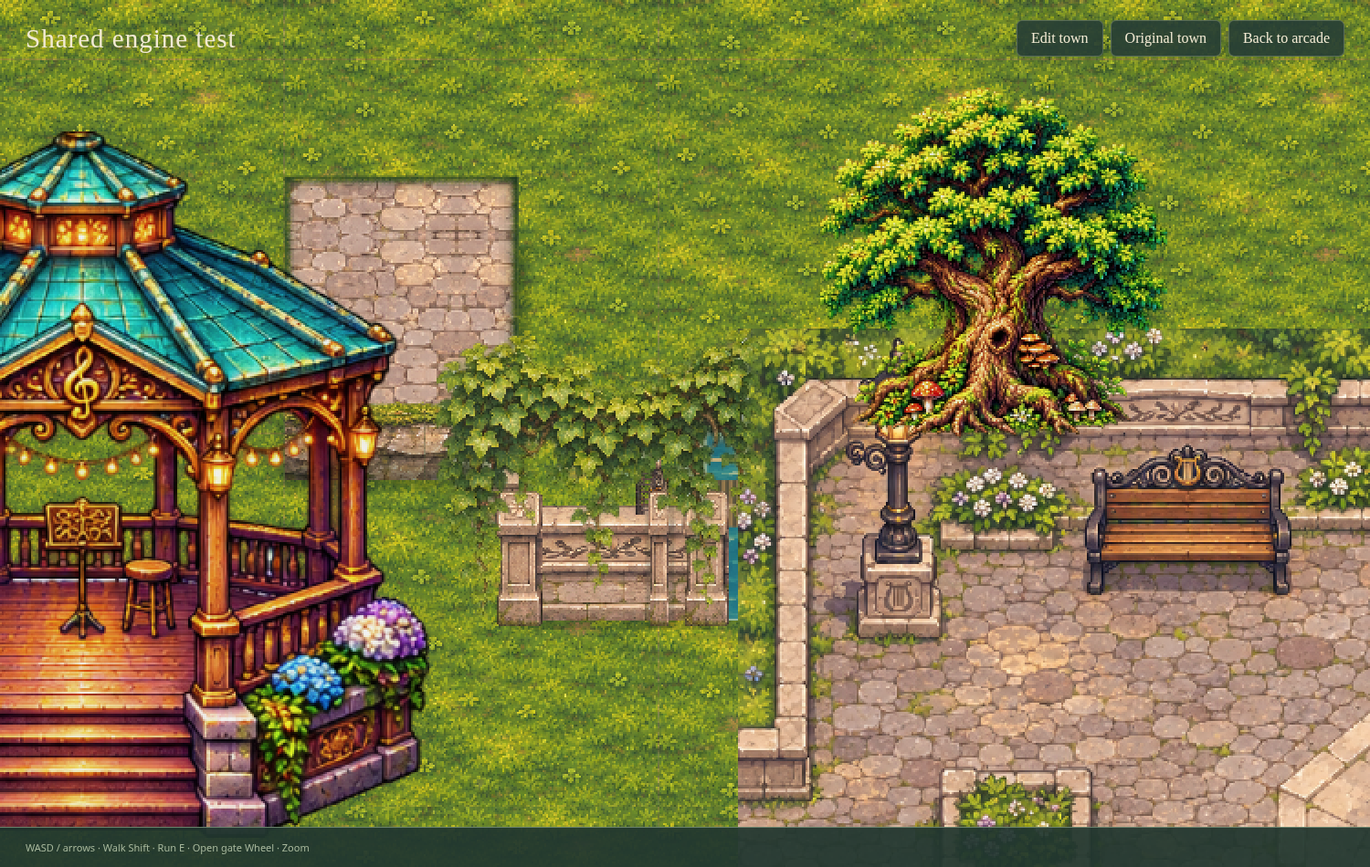
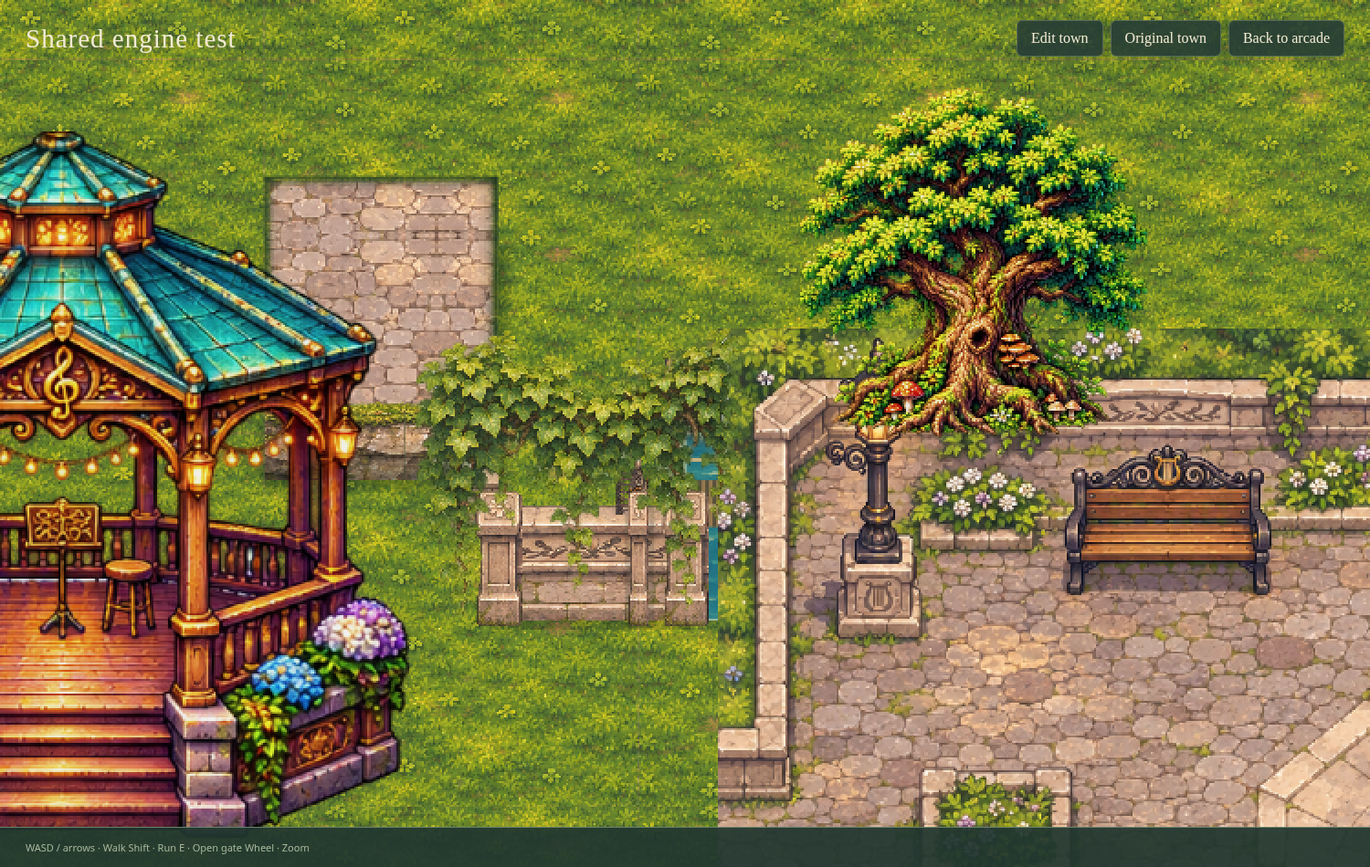
Scale town characters and speed up exploration

diff --git a/town/builder/index.html b/town/builder/index.html
@@ -1,3 +1,3 @@
-<!doctype html><html lang="en"><head><meta charset="utf-8"><meta name="viewport" content="width=device-width,initial-scale=1"><title>Coda Town · Builder</title><link rel="stylesheet" href="builder.css?v=home-open-1"></head><body>
+<!doctype html><html lang="en"><head><meta charset="utf-8"><meta name="viewport" content="width=device-width,initial-scale=1"><title>Coda Town · Builder</title><link rel="stylesheet" href="builder.css?v=walk-scale-1"></head><body>
 <header><a href="../">❧ Coda Town</a><input id="name" value="My Coda Town" aria-label="Town name" maxlength="100"><button id="new">New grass map</button><button id="open">Open</button><button id="save">Save project</button><button id="pack">Asset pack ↓</button><button id="undo">Undo</button><button id="redo">Redo</button><button id="walk">Walk test</button><button id="play">Play this town ↗</button><button id="fit">Full map</button></header>
-<main><aside><h1>Town workshop</h1><p>Build your own musical valley.</p><div id="tools"></div><h2 id="assetLibraryTitle">Asset library</h2><input id="search" placeholder="Search trees, houses, gazebo…" aria-label="Search assets"><select id="category" aria-label="Asset category"><option value="">All assets</option></select><div id="library"></div></aside><section id="viewport"><canvas id="map" tabindex="0" aria-label="Town building canvas"></canvas><div id="mapTools"><button id="selectLand">Select land region</button><button id="cliffMount">Cliff assets</button><button id="cornerStyle" hidden>Corners: Smooth round ↻</button><button id="selectAllLand">Select whole map</button><label>View <select id="heightView"><option value="art">Artwork</option><option value="colors">Height colors</option><option value="plan">Elevation plan</option></select></label><span id="hoverLevel">Level 0</span></div><div id="heightLegend" hidden><b>Ground levels</b><div id="levelSwatches"></div><small>Lines mark height changes · arrows mark stairs</small></div><div id="hint">Drag to paint · right drag to pan · wheel to zoom</div><div id="status" role="status">Loading artwork…</div></section><aside id="inspector"><h2>Land selection</h2><label>Selection shape<select id="selectionShape"><option value="rectangle">Rectangle</option><option value="freeform">Freeform lasso</option></select></label><p id="regionInfo">Drag a rectangle or draw a freeform boundary in any view.</p><button id="raiseRegion" disabled>Raise selected land +1</button><button id="lowerRegion" disabled>Lower selected land −1</button><button id="clearRegion" disabled>Clear selection</button><h2 id="buildSettingsTitle">Build settings</h2><label>Ground<select id="surface"></select></label><label>Paving match<select id="paving"><option value="auto">Auto · nearest property</option></select></label><label>Brush size <input id="brush" type="number" min=".25" max="15" step=".25" value="3"></label><div id="groundBrushSettings" hidden><label>Painting shape<select id="groundShape"><option value="round">Round soft brush</option><option value="square">Square tiles</option></select></label><div id="softGroundControls"><label>Hardness <output id="brushHardnessValue">45%</output><input id="brushHardness" type="range" min="0" max="100" value="45"></label><label>Opacity / blend strength <output id="brushOpacityValue">100%</output><input id="brushOpacity" type="range" min="1" max="100" value="100"></label></div><p id="groundBrushHelp">Paint with a round, soft-edged brush. Blend ground softens existing material transitions. Water uses Lake / river.</p></div><p>Round corners: brush an inside or outside corner. Brush width sets the rounding radius, up to 8 tiles.</p><label>Terrain level <input id="level" type="number" min="0" max="8" value="1"></label><p>Steps: drag from one ground level to another. Direction and rise are automatic; brush width sets stair width.</p><label>Steps / bridge finish<select id="finish"><option>stone</option><option>wood</option><option>brick</option></select></label><label>Bridge direction<select id="bridge"><option value="ns">North–south</option><option value="ew">East–west</option></select></label><label>Fence / wall<select id="barrier"></select></label><h2 id="assetName">Choose an asset</h2><label>Placement surface<select id="mountSurface"><option value="ground">Ground</option><option value="cliff">Cliff face · south-facing</option></select></label><label>Height on cliff<input id="mountHeight" type="range" min="0" max="100" value="50"><span id="mountHeightLabel">50%</span></label><label>Size<input id="scale" type="number" min=".25" max="3" step=".25" value="1"></label><label>Rotation<select id="rotation"><option>0</option><option>90</option><option>180</option><option>270</option></select></label><label>Layer<select id="layer"><option>objects</option><option>overgrowth</option><option>ground</option></select></label><label><input id="collision" type="checkbox" checked> Asset collision</label><button id="duplicate">Duplicate selected</button><button id="delete">Delete selected</button><label><input id="grid" type="checkbox"> Grid</label><label><input id="showCollision" type="checkbox"> Show collision</label><p>Raised ground blocks walking at cliff edges. Steps connect the ground levels you drag between. Water blocks walking; bridges cross it. E opens gates during walk test.</p><p>Fences snap to cell edges. Drag an L to join corners. Foliage uses the overgrowth layer.</p><p>Projects autosave in this browser. Save a project file for a portable backup.</p></aside></main><input id="file" type="file" accept=".json" hidden><script src="../../character-renderer.js"></script><script type="module" src="app.mjs?v=home-open-1"></script></body></html>
+<main><aside><h1>Town workshop</h1><p>Build your own musical valley.</p><div id="tools"></div><h2 id="assetLibraryTitle">Asset library</h2><input id="search" placeholder="Search trees, houses, gazebo…" aria-label="Search assets"><select id="category" aria-label="Asset category"><option value="">All assets</option></select><div id="library"></div></aside><section id="viewport"><canvas id="map" tabindex="0" aria-label="Town building canvas"></canvas><div id="mapTools"><button id="selectLand">Select land region</button><button id="cliffMount">Cliff assets</button><button id="cornerStyle" hidden>Corners: Smooth round ↻</button><button id="selectAllLand">Select whole map</button><label>View <select id="heightView"><option value="art">Artwork</option><option value="colors">Height colors</option><option value="plan">Elevation plan</option></select></label><span id="hoverLevel">Level 0</span></div><div id="heightLegend" hidden><b>Ground levels</b><div id="levelSwatches"></div><small>Lines mark height changes · arrows mark stairs</small></div><div id="hint">Drag to paint · right drag to pan · wheel to zoom</div><div id="status" role="status">Loading artwork…</div></section><aside id="inspector"><h2>Land selection</h2><label>Selection shape<select id="selectionShape"><option value="rectangle">Rectangle</option><option value="freeform">Freeform lasso</option></select></label><p id="regionInfo">Drag a rectangle or draw a freeform boundary in any view.</p><button id="raiseRegion" disabled>Raise selected land +1</button><button id="lowerRegion" disabled>Lower selected land −1</button><button id="clearRegion" disabled>Clear selection</button><h2 id="buildSettingsTitle">Build settings</h2><label>Ground<select id="surface"></select></label><label>Paving match<select id="paving"><option value="auto">Auto · nearest property</option></select></label><label>Brush size <input id="brush" type="number" min=".25" max="15" step=".25" value="3"></label><div id="groundBrushSettings" hidden><label>Painting shape<select id="groundShape"><option value="round">Round soft brush</option><option value="square">Square tiles</option></select></label><div id="softGroundControls"><label>Hardness <output id="brushHardnessValue">45%</output><input id="brushHardness" type="range" min="0" max="100" value="45"></label><label>Opacity / blend strength <output id="brushOpacityValue">100%</output><input id="brushOpacity" type="range" min="1" max="100" value="100"></label></div><p id="groundBrushHelp">Paint with a round, soft-edged brush. Blend ground softens existing material transitions. Water uses Lake / river.</p></div><p>Round corners: brush an inside or outside corner. Brush width sets the rounding radius, up to 8 tiles.</p><label>Terrain level <input id="level" type="number" min="0" max="8" value="1"></label><p>Steps: drag from one ground level to another. Direction and rise are automatic; brush width sets stair width.</p><label>Steps / bridge finish<select id="finish"><option>stone</option><option>wood</option><option>brick</option></select></label><label>Bridge direction<select id="bridge"><option value="ns">North–south</option><option value="ew">East–west</option></select></label><label>Fence / wall<select id="barrier"></select></label><h2 id="assetName">Choose an asset</h2><label>Placement surface<select id="mountSurface"><option value="ground">Ground</option><option value="cliff">Cliff face · south-facing</option></select></label><label>Height on cliff<input id="mountHeight" type="range" min="0" max="100" value="50"><span id="mountHeightLabel">50%</span></label><label>Size<input id="scale" type="number" min=".25" max="3" step=".25" value="1"></label><label>Rotation<select id="rotation"><option>0</option><option>90</option><option>180</option><option>270</option></select></label><label>Layer<select id="layer"><option>objects</option><option>overgrowth</option><option>ground</option></select></label><label><input id="collision" type="checkbox" checked> Asset collision</label><button id="duplicate">Duplicate selected</button><button id="delete">Delete selected</button><label><input id="grid" type="checkbox"> Grid</label><label><input id="showCollision" type="checkbox"> Show collision</label><p>Raised ground blocks walking at cliff edges. Steps connect the ground levels you drag between. Water blocks walking; bridges cross it. E opens gates during walk test.</p><p>Fences snap to cell edges. Drag an L to join corners. Foliage uses the overgrowth layer.</p><p>Projects autosave in this browser. Save a project file for a portable backup.</p></aside></main><input id="file" type="file" accept=".json" hidden><script src="../../character-renderer.js"></script><script type="module" src="app.mjs?v=walk-scale-1"></script></body></html>

diff --git a/town/index.html b/town/index.html
@@ -7,4 +7,4 @@
 <div id="touch"><div class="dpad"><button data-key="ArrowUp" aria-label="Walk north">↑</button><button data-key="ArrowLeft" aria-label="Walk west">←</button><button data-key="ArrowDown" aria-label="Walk south">↓</button><button data-key="ArrowRight" aria-label="Walk east">→</button></div><button id="touchAction" disabled>Interact</button></div>
 <dialog id="mapDialog"><div class="dialog-head"><div><small>FIND YOUR OWN WAY</small><h2>Around the valley</h2></div><button data-close aria-label="Close map">✕</button></div><p>Follow the straight streets, find the stone stairways, and explore the raised neighborhoods. Homes range from cottages to large courtyard houses.</p><canvas id="mapCanvas" width="960" height="720" aria-label="Town map with homes, paths, river, and current position"></canvas><div id="directory"></div></dialog>
 <dialog id="story"><div class="dialog-head"><h2 id="storyTitle"></h2><button data-close aria-label="Close conversation">✕</button></div><p id="storyText"></p><div id="storyActions"></div></dialog>
-<script src="../npc-visitors.js"></script><script src="../character-renderer.js"></script><script type="module" src="boot.mjs?v=home-open-1"></script></body></html>
+<script src="../npc-visitors.js"></script><script src="../character-renderer.js"></script><script type="module" src="boot.mjs?v=walk-scale-1"></script></body></html>

diff --git a/town/world/walk-player-browser.py b/town/world/walk-player-browser.py
@@ -1,0 +1,180 @@
+"""Actual walk-test/game actor proportions, travel speed, gait and foot anchor."""
+from functools import partial
+from http.server import SimpleHTTPRequestHandler, ThreadingHTTPServer
+from pathlib import Path
+import json
+import math
+import threading
+from playwright.sync_api import sync_playwright
+
+ROOT = Path(__file__).resolve().parents[2]
+
+
+class Quiet(SimpleHTTPRequestHandler):
+    def log_message(self, *_):
+        pass
+
+
+server = ThreadingHTTPServer(('127.0.0.1', 0), partial(Quiet, directory=str(ROOT)))
+threading.Thread(target=server.serve_forever, daemon=True).start()
+fixture = {'version': 1, 'name': 'Town character scale', 'spawn': {'x': 8192, 'y': 6144},
+           'cells': {}, 'edges': {}, 'objects': []}
+profile = {'skin': '#b98562', 'hair': '#54352b', 'hairstyle': 'bob', 'shirt': '#b7534e',
+           'lowerColor': '#46566e', 'outfit': 'coat', 'headwear': 'straw', 'shoes': 'boots'}
+
+# Only the app's named frame callback is controlled. Playwright's own animation
+# polling and browser timers remain live, including normal project autosave.
+instrument = '''(() => {
+  const nativeRAF=requestAnimationFrame.bind(window);let queue=[],clock=null,id=0;
+  window.requestAnimationFrame=cb=>cb.name==='frame'?(queue.push(cb),--id):nativeRAF(cb);
+  window.__advance=count=>{if(clock===null)clock=performance.now();for(let i=0;i<count;i++){
+    clock+=1000/60;const callbacks=queue;queue=[];for(const cb of callbacks)cb(clock);
+  }};
+  let wrapped;
+  Object.defineProperty(window,'createCodaCharacterRenderer',{configurable:true,
+    get:()=>wrapped,set:factory=>{
+      window.__characterFactory=factory;
+      wrapped=api=>{const renderer=factory(api),draw=renderer.drawPlayer;
+        renderer.drawPlayer=(ctx,profile,motion,time)=>{
+          window.__lastActor={api:{...api},profile:{...profile},motion:{...motion},time};
+          return draw(ctx,profile,motion,time);
+        };return renderer;
+      };
+    }});
+})();'''
+
+try:
+    with sync_playwright() as p:
+        browser = p.chromium.launch(executable_path='/usr/bin/chromium', args=['--no-sandbox'])
+        page = browser.new_page(viewport={'width': 1600, 'height': 1050})
+        page.add_init_script(instrument)
+        errors = []
+        page.on('pageerror', lambda e: errors.append(str(e)))
+        page.goto(f'http://127.0.0.1:{server.server_port}/town/builder/')
+        page.wait_for_function('!!window.townBuilder')
+        urls = page.evaluate('''async()=>{
+          const url=document.querySelector('script[type="module"]').src,code=await(await fetch(url)).text();
+          const dependency=name=>new URL(code.split(String.fromCharCode(10)).find(l=>l.includes(name+'.mjs')).split("'")[1],url).href;
+          const runtime=dependency('runtime'),r=await(await fetch(runtime)).text();
+          return {runtime,settings:new URL(r.split(String.fromCharCode(10)).find(l=>l.includes('player-settings.mjs')).split("'")[1],runtime).href};
+        }''')
+        settings = page.evaluate('async url=>{const m=await import(url);return {scale:m.PLAYER_SCALE,walk:m.WALK_SPEED,run:m.RUN_SPEED,gait:m.GAIT_PER_PIXEL};}', urls['settings'])
+        assert settings == {'scale': 2.5, 'walk': 450, 'run': 780, 'gait': math.pi * 2 / 256}
+
+        def advance(count=1):
+            page.evaluate('(n)=>__advance(n)', count)
+
+        def actor():
+            return page.evaluate('__lastActor')
+
+        def load(doc):
+            page.locator('#file').set_input_files({'name': 'walk.json', 'mimeType': 'application/json', 'buffer': json.dumps(doc).encode()})
+            page.wait_for_function('(name)=>townBuilder.project.name===name', arg=doc['name'])
+
+        load(fixture)
+        page.locator('#walk').click()
+        advance()
+        first = actor()
+        assert first['api']['worldScale'] == 2.5
+
+        # Compare actual opaque body bounds with the unscaled arcade renderer.
+        bounds = page.evaluate('''()=>{
+          function box(scale){const c=document.createElement('canvas');c.width=c.height=512;
+            const g=c.getContext('2d'),r=__characterFactory({worldScale:scale});
+            r.drawPlayer(g,__lastActor.profile,{x:256,y:350,facing:'down',walking:false,phase:0},0);
+            const data=g.getImageData(0,0,512,512).data;let x0=512,y0=512,x1=-1,y1=-1;
+            for(let y=0;y<512;y++)for(let x=0;x<512;x++)if(data[(y*512+x)*4+3]>=250){x0=Math.min(x0,x);x1=Math.max(x1,x);y0=Math.min(y0,y);y1=Math.max(y1,y);}
+            return {w:x1-x0+1,h:y1-y0+1,bottom:y1,top:y0};}
+          return {native:box(1),town:box(__lastActor.api.worldScale)};
+        }''')
+        assert 2.4 < bounds['town']['h'] / bounds['native']['h'] < 2.6, bounds
+        assert bounds['town']['h'] >= 110, bounds
+        assert 349 <= bounds['town']['bottom'] <= 355, bounds
+
+        def travel(keys, speed):
+            before = actor()['motion']
+            for key in keys:
+                page.keyboard.down(key)
+            advance(60)
+            for key in reversed(keys):
+                page.keyboard.up(key)
+            after = actor()['motion']
+            distance = math.hypot(after['x'] - before['x'], after['y'] - before['y'])
+            assert abs(distance - speed) < .02, (keys, distance, speed)
+            expected = (before['phase'] + distance * settings['gait']) % (2 * math.pi)
+            assert abs(after['phase'] - expected) < 1e-7, (after, expected)
+            assert after['walking']
+            advance()
+            assert not actor()['motion']['walking']
+            assert abs(actor()['motion']['phase'] - after['phase']) < 1e-8
+            return distance
+
+        measured = {'walk': travel(['d'], 450), 'run': travel(['Shift', 'd'], 780),
+                    'diagonal': travel(['w', 'd'], 450)}
+        page.locator('#walk').click()
+
+        # A raised floor changes the foot projection, not the actor's proportions.
+        raised = json.loads(json.dumps(fixture))
+        raised['name'] = 'Raised character anchor'
+        raised['cells'] = {f'{x},{y}': {'surface': 'grass', 'level': 2}
+                           for x in range(120, 181) for y in range(88, 105)}
+        load(raised)
+        page.locator('#walk').click()
+        advance()
+        anchored = actor()
+        assert anchored['motion']['x'] == 8192 and anchored['motion']['y'] == 6144 - 96, anchored
+        assert anchored['api']['worldScale'] == settings['scale']
+
+        # Standalone test pages receive the same origin-checked avatar bridge.
+        page.evaluate('(avatar)=>postMessage({type:"coda-town-state-result",avatar},location.origin)', profile)
+        page.wait_for_timeout(30)
+        advance()
+        assert all(actor()['profile'][key] == value for key, value in profile.items())
+        directions = page.evaluate('''()=>{const r=__characterFactory(__lastActor.api);return ['down','left','up','right'].map(facing=>{
+          const c=document.createElement('canvas');c.width=c.height=256;r.drawPlayer(c.getContext('2d'),__lastActor.profile,{x:128,y:200,facing,walking:true,phase:1},0);return c.toDataURL();});}''')
+        assert len(set(directions)) == 4
+
+        capture = '''async ({url,game})=>{const{render}=await import(url),d=game?townGame.project:townBuilder.project;
+          const c=document.createElement('canvas');c.width=800;c.height=600;const g=c.getContext('2d');g.imageSmoothingEnabled=false;
+          const r=__characterFactory(__lastActor.api),profile=__lastActor.profile;
+          render(g,d,{x:8192,y:6048,zoom:.8},800,600,{player:{x:8192,y:6144},drawPlayer:(ctx,x,y)=>r.drawPlayer(ctx,profile,{x,y,facing:'down',walking:false,phase:0},0)});return c.toDataURL();}'''
+        before = page.evaluate(capture, {'url': urls['runtime'], 'game': False})
+        page.locator('#play').click()
+        page.wait_for_function('!!window.townGame')
+        advance()
+        assert actor()['api']['worldScale'] == settings['scale']
+        assert actor()['motion']['y'] == 6144 - 96
+        page.evaluate('(avatar)=>postMessage({type:"coda-town-state-result",avatar},location.origin)', profile)
+        page.wait_for_timeout(30)
+        advance()
+        assert before == page.evaluate(capture, {'url': urls['runtime'], 'game': True})
+
+        # Actual gameplay keyboard motion uses the same speeds (on the raised floor).
+        travel(['d'], 450)
+        travel(['Shift', 'd'], 780)
+
+        samples = page.evaluate('''async url=>{
+          const{render,catalog}=await import(url),make=()=>({version:1,name:'Character scale',spawn:{x:8192,y:6144},cells:{},edges:{},objects:[]});
+          const square=make();square.objects.push({id:'square',asset:'music-square',x:8192,y:7168,scale:1,rotation:0,collision:true,layer:'ground'});
+          const garden=make(),estate=catalog.get('estate-bach');garden.objects.push({id:'home',asset:'estate-bach',x:8192,y:7168,scale:1,rotation:0,collision:true,layer:'ground'});
+          function sample(label,d,cam,p,scale,look){const c=document.createElement('canvas');c.width=320;c.height=240;const g=c.getContext('2d');g.setTransform(.5,0,0,.5,0,0);g.imageSmoothingEnabled=false;
+            const r=__characterFactory({worldScale:scale});render(g,d,cam,640,480,{player:p,drawPlayer:(ctx,x,y)=>r.drawPlayer(ctx,look,{x,y,facing:'down',walking:false,phase:0},0)});return{label,url:c.toDataURL()};}
+          const plain=__characterFactory({}).normalizeProfile({}),benchPoint={x:7600,y:5960},benchCam={x:7600,y:5820,zoom:1};
+          const props=make();props.objects.push({id:'bench',asset:'props-1-150',x:8100,y:6130,scale:1,rotation:0,collision:true,layer:'objects'},
+            {id:'tree',asset:'trees-0-480',x:8490,y:6250,scale:1,rotation:0,collision:true,layer:'objects'});
+          return[sample('Before · native character size',square,benchCam,benchPoint,1,plain),sample('Town scale · same bench and camera',square,benchCam,benchPoint,2.5,plain),
+            sample('Town scale · home porch and garden',garden,{x:8192,y:6700,zoom:.8},{x:8192,y:6820},2.5,__lastActor.profile),
+            sample('Town scale · bench and full-size tree',props,{x:8250,y:6010,zoom:.8},{x:8220,y:6144},2.5,__lastActor.profile)];
+        }''', urls['runtime'])
+        page.evaluate('''samples=>{document.querySelectorAll('body>*').forEach(e=>e.style.display='none');
+          const gallery=document.createElement('div');gallery.id='walkGallery';gallery.style.cssText='display:grid;grid-template-columns:repeat(2,640px);gap:12px;padding:12px;width:1316px;background:#20382b;color:#f5e3ba;font:20px Georgia';
+          for(const s of samples){const tile=document.createElement('div'),img=document.createElement('img');img.src=s.url;img.width=640;img.height=480;img.style.cssText='display:block;image-rendering:pixelated;margin-top:8px';tile.append(document.createTextNode(s.label),img);gallery.append(tile);}document.body.append(gallery);
+        }''', samples)
+        page.locator('#walkGallery').screenshot(path=str(ROOT / 'docs/town-preview/walk-player.png'))
+        assert not errors, errors
+        browser.close()
+        print(json.dumps({'body_bounds': bounds, 'measured_one_second': measured}))
+finally:
+    server.shutdown()
+
+print('Walk test and gameplay share enlarged actors, faster travel, distance-based gait, cosmetics, foot anchors and exact scene pixels.')

diff --git a/town/builder/README.md b/town/builder/README.md
@@ -30,6 +30,10 @@ Validation: `node --test town/builder/model.test.mjs town/model.test.mjs`; `pyth
 
 The editor and playable authored maps both use `town/world/` for the asset catalog, renderer, pixel resolution, project format, collision, spawn placement, movement, gates and camera height. Walk test uses those same functions. Editor guides (selection, grid, collision highlights and ghosts) are intentionally excluded from gameplay. Pixel comparison tests verify that static scenes match exactly with equal camera and viewport settings. The original handcrafted town remains a separate map; placed NPC home interiors are still not connected.
 
+Walk test and **Play this town** use the same town character proportions: 2.5× the avatar renderer's native size, with walking at 450 world pixels/second and Shift-running at 780. Equipment and directional animation scale together around the feet. Gait follows actual travel distance and stops against obstacles; terrain height, stairs and gate passage still use the shared collision/movement code. The character renderer supplies its own correctly sized shadow. These settings apply to authored towns and do not change the arcade's character scale.
+
+Character checks: `node --test town/world/physics.test.mjs town/builder/stairs.test.mjs`; `python3 town/world/walk-player-browser.py`. They cover travel speed, diagonal normalization, fast gate/stair collision, sprite scale, feet anchoring and editor/game character parity.
+
 Additional validation: `node --test town/world/physics.test.mjs`; `python3 town/world/browser.py`.
 
 Use **Select land** and drag a rectangle to select terrain tiles. The Land selection panel shows the selected size. **Raise selected land +1** and **Lower selected land −1** change the whole selection by one level while preserving its surfaces and relative heights (within the 0–8 limits). Each click is one undoable action. **Clear selection** or Escape clears the highlight. Selection itself does not alter or save terrain.

diff --git a/town/ART-DIRECTION.md b/town/ART-DIRECTION.md
@@ -53,6 +53,8 @@ Keep the approved Music Square intact and available as a complete placeable scen
 
 All builder-authored maps must use `town/world/` in both the builder and playable town route (`?map=builder`). Keep one asset catalog, renderer, terrain/asset collision implementation, movement, gate interaction, and pixel scale. Editor guides may overlay the scene; they must not alter the underlying game artwork. Changes to shared graphics apply to both views. Preserve saved version-1 editor projects. The original handcrafted town is available separately while authored-map NPC interiors remain future work.
 
+Authored-town characters use a 2.5× instance scale so the native arcade avatar remains readable beside town-sized scenery. Scale the existing character, outfit and equipment around its foot anchor; do not substitute a placeholder or change the arcade's global character defaults. Walk test and gameplay share 450/780 walking/running speeds and distance-driven gait. Draw one character shadow, and retain collision substeps so the faster actor cannot skip gates or stairs.
+
 ### Detailed estate and construction pass
 
 User approved Music Square and water as the visual benchmark, and rejected the procedural stairs, walls, sparse vines, and flat cliff pattern. Construction must use the matching detailed painted kit (`construction-detail.png`), botanical overlays (`foliage-detail.png`) and continuous rock/grass cliff rendering, with shared piers at fence corners. Do not return to diagonal gate-like braces on every fence cell, flat strip stairs, or isolated rock decals stamped across cliff faces.

diff --git a/docs/town-preview/README.md b/docs/town-preview/README.md
@@ -133,3 +133,9 @@ Existing maps use the new materials automatically. The asset pack includes sand 
 [NPC homes, your home and the arcade at the same world scale](open-estates.png)
 
 NPC estates are 15% smaller while retaining their size differences. All 19 home assets have open yard edges, with detached baked fencing/walls/gateposts and their collision removed. Houses, porches, gardens and paths remain. Your home's size and the arcade's exact footprint are retained. Existing saved placements receive the revised artwork and sizes automatically.
+
+## Town character scale and walking
+
+[Larger walk-test character beside town scenery](walk-player.png)
+
+Walk test and authored-map gameplay now use a character at 2.5× native size, with faster walking and Shift-running. Directional animation and equipment retain their proportions, feet follow the actual terrain/stair height, and the gait follows movement rather than continuing against a wall.
